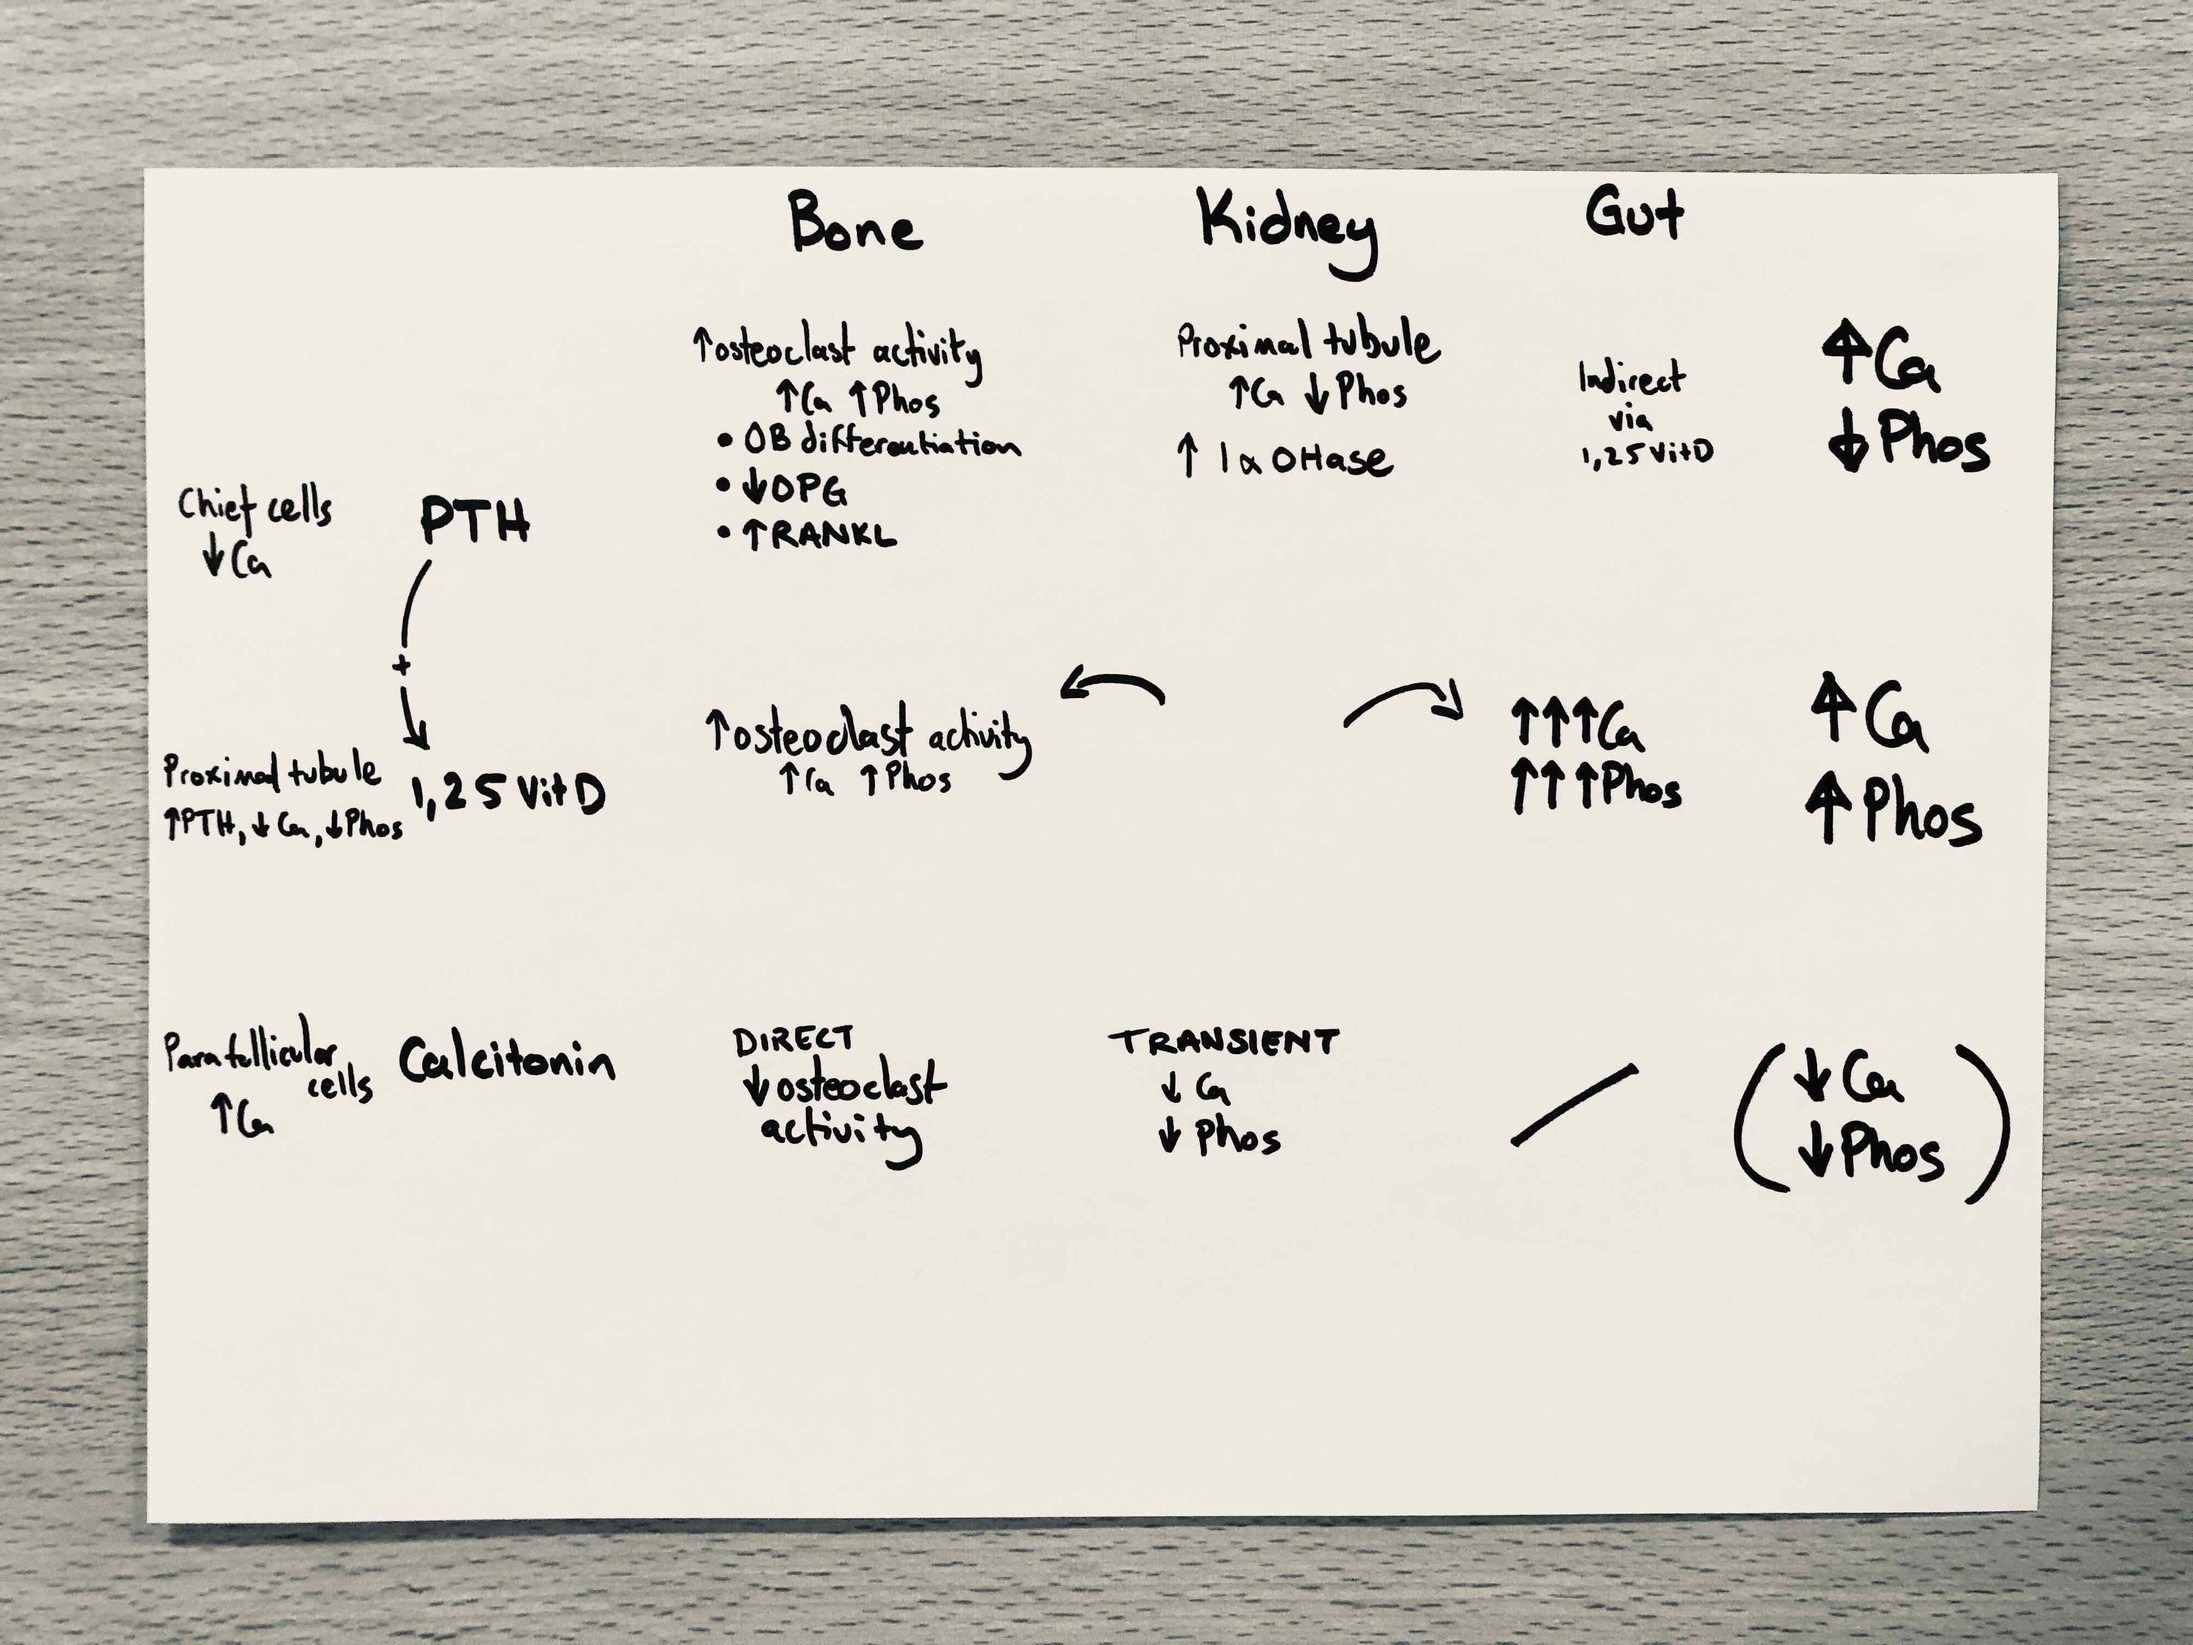
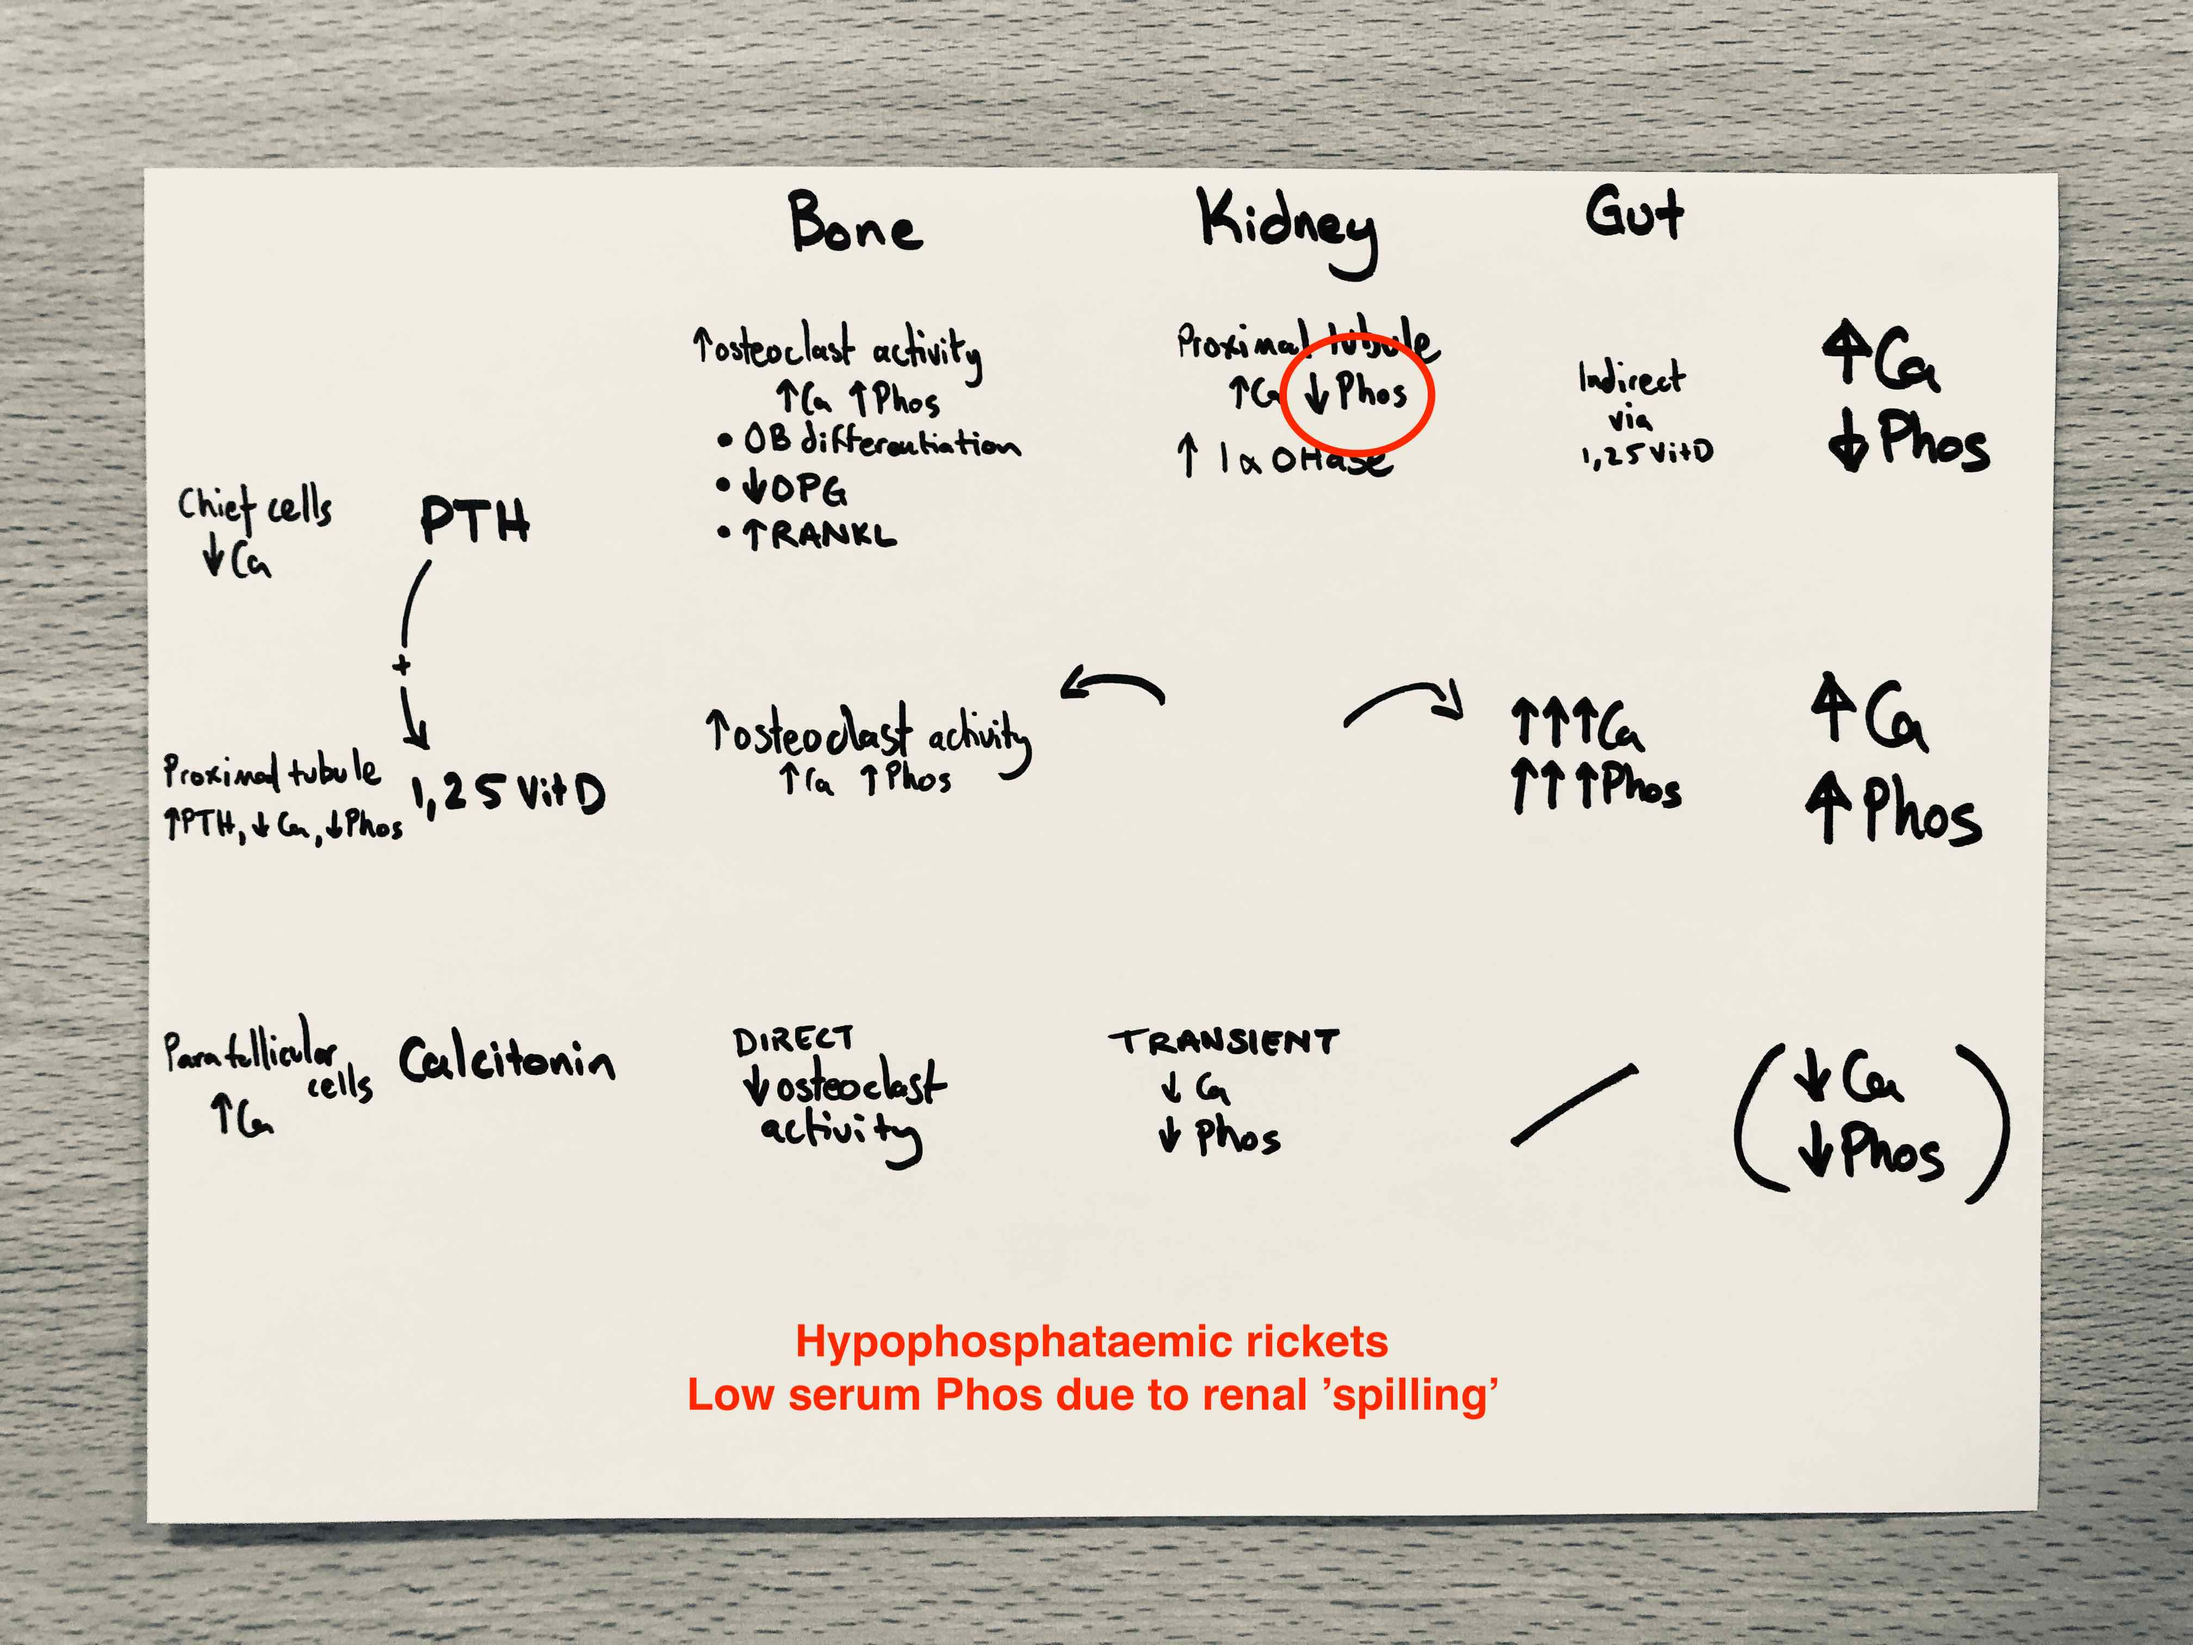
Added Hypophos

Changed region(s): [[0.3125, 0.8082, 0.6875, 0.8704], [0.5938, 0.1865, 0.6562, 0.2798], [0.5625, 0.2176, 0.5938, 0.2487]]

diff --git a/content/tutorials/anatomy/_index.md b/content/tutorials/anatomy/_index.md
@@ -1,0 +1,23 @@
++++
+title = "Anatomy"
+
+date = 2018-09-09T00:00:00
+# lastmod = 2018-09-09T00:00:00
+
+draft = false  # Is this a draft? true/false
+toc = true  # Show table of contents? true/false
+type = "docs"  # Do not modify.
+
+# Add menu entry to sidebar.
+[menu.tutorial]
+  name = "Week 1"
+  weight = 1
++++
+
+This section is for Anatomy tutorials.
+
+* **Setting essays**
+* **Reading recommendations**
+* **Tutorials times**
+
+It should be easy from here.
